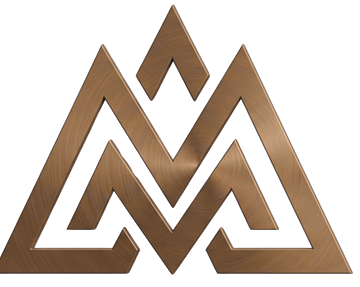
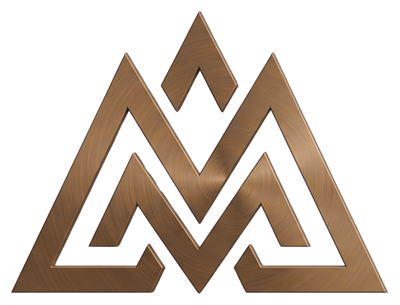
Cắt lại biểu tượng núi M–A đầy đủ, không mất góc trái

diff --git a/index.html b/index.html
@@ -592,7 +592,7 @@ input:focus, select:focus, textarea:focus { outline: 2px solid var(--bronze-hi);
         </div>
         <div>
           <div class="symbol">
-            <img src="assets/cmac-mark.png" alt="Biểu tượng CMAC: bốn đỉnh núi lồng chữ M và A" width="152" height="121">
+            <img src="assets/cmac-mark.png" alt="Biểu tượng CMAC: bốn đỉnh núi lồng chữ M và A" width="400" height="305">
             <div>
               <h3 style="font-size:1.125rem">Ý nghĩa biểu tượng</h3>
               <p>Hai chữ M và A (Management &amp; Accounting) lồng vào nhau thành bốn đỉnh núi. Ba đỉnh phía trước là nền tảng tài chính vững chắc; đỉnh nhỏ nhô cao phía sau là tăng trưởng và tầm nhìn.</p>
